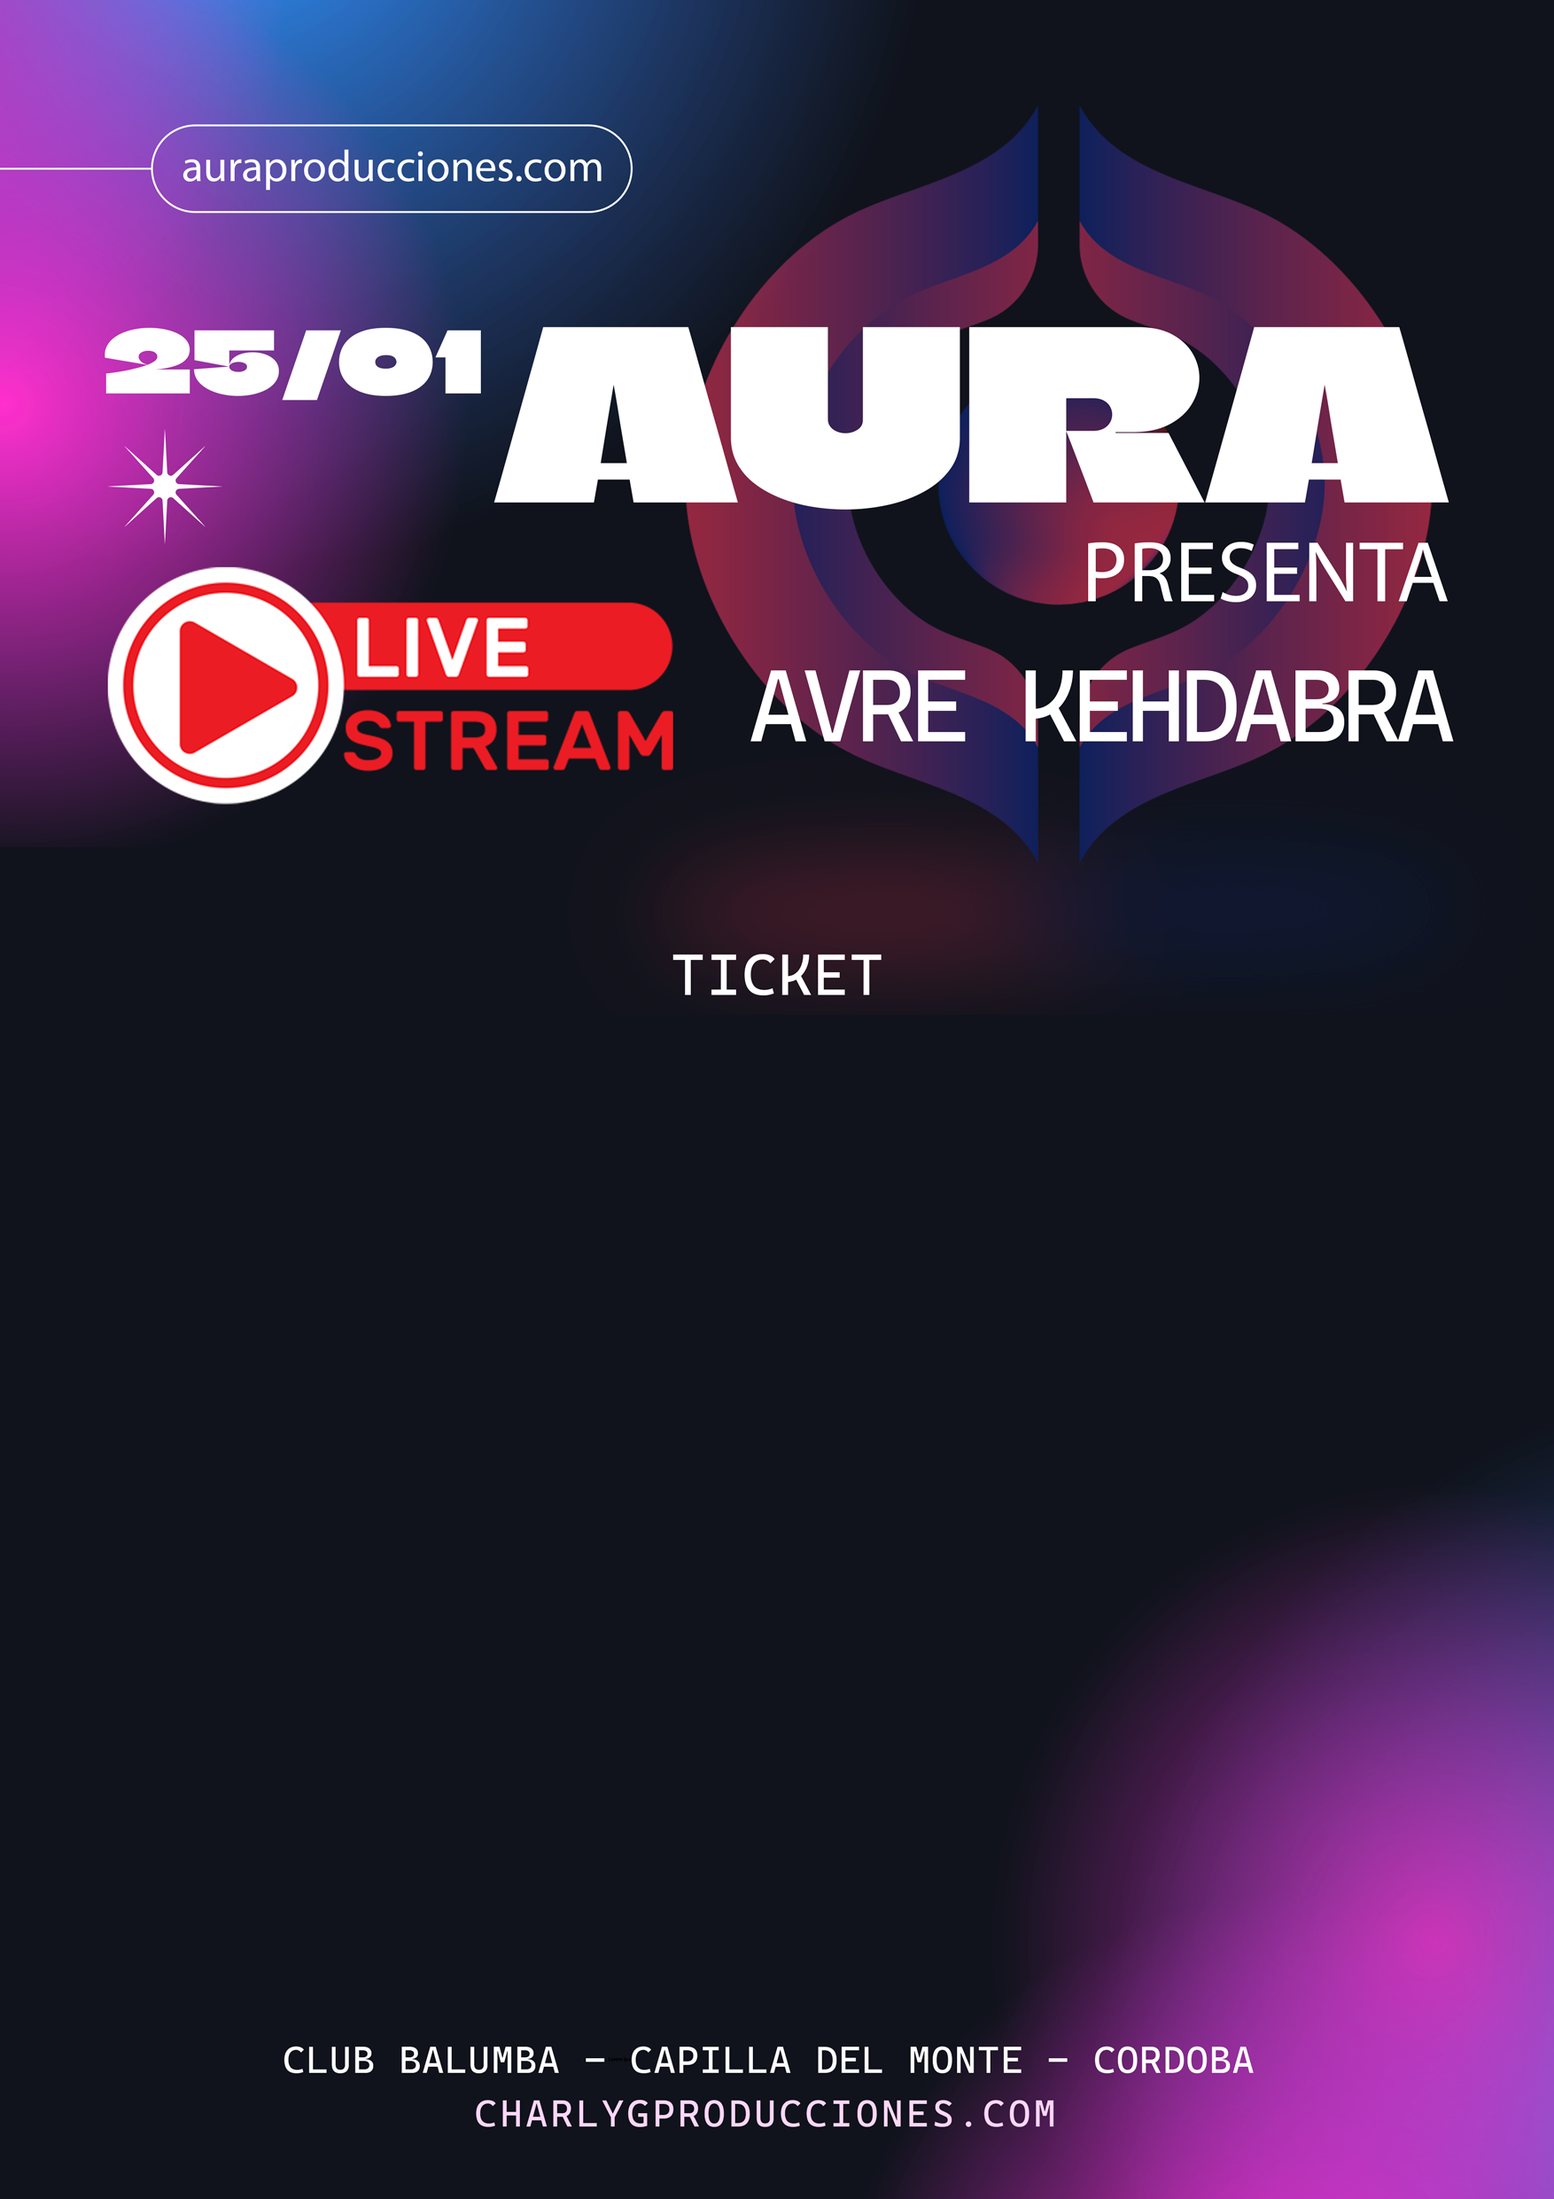
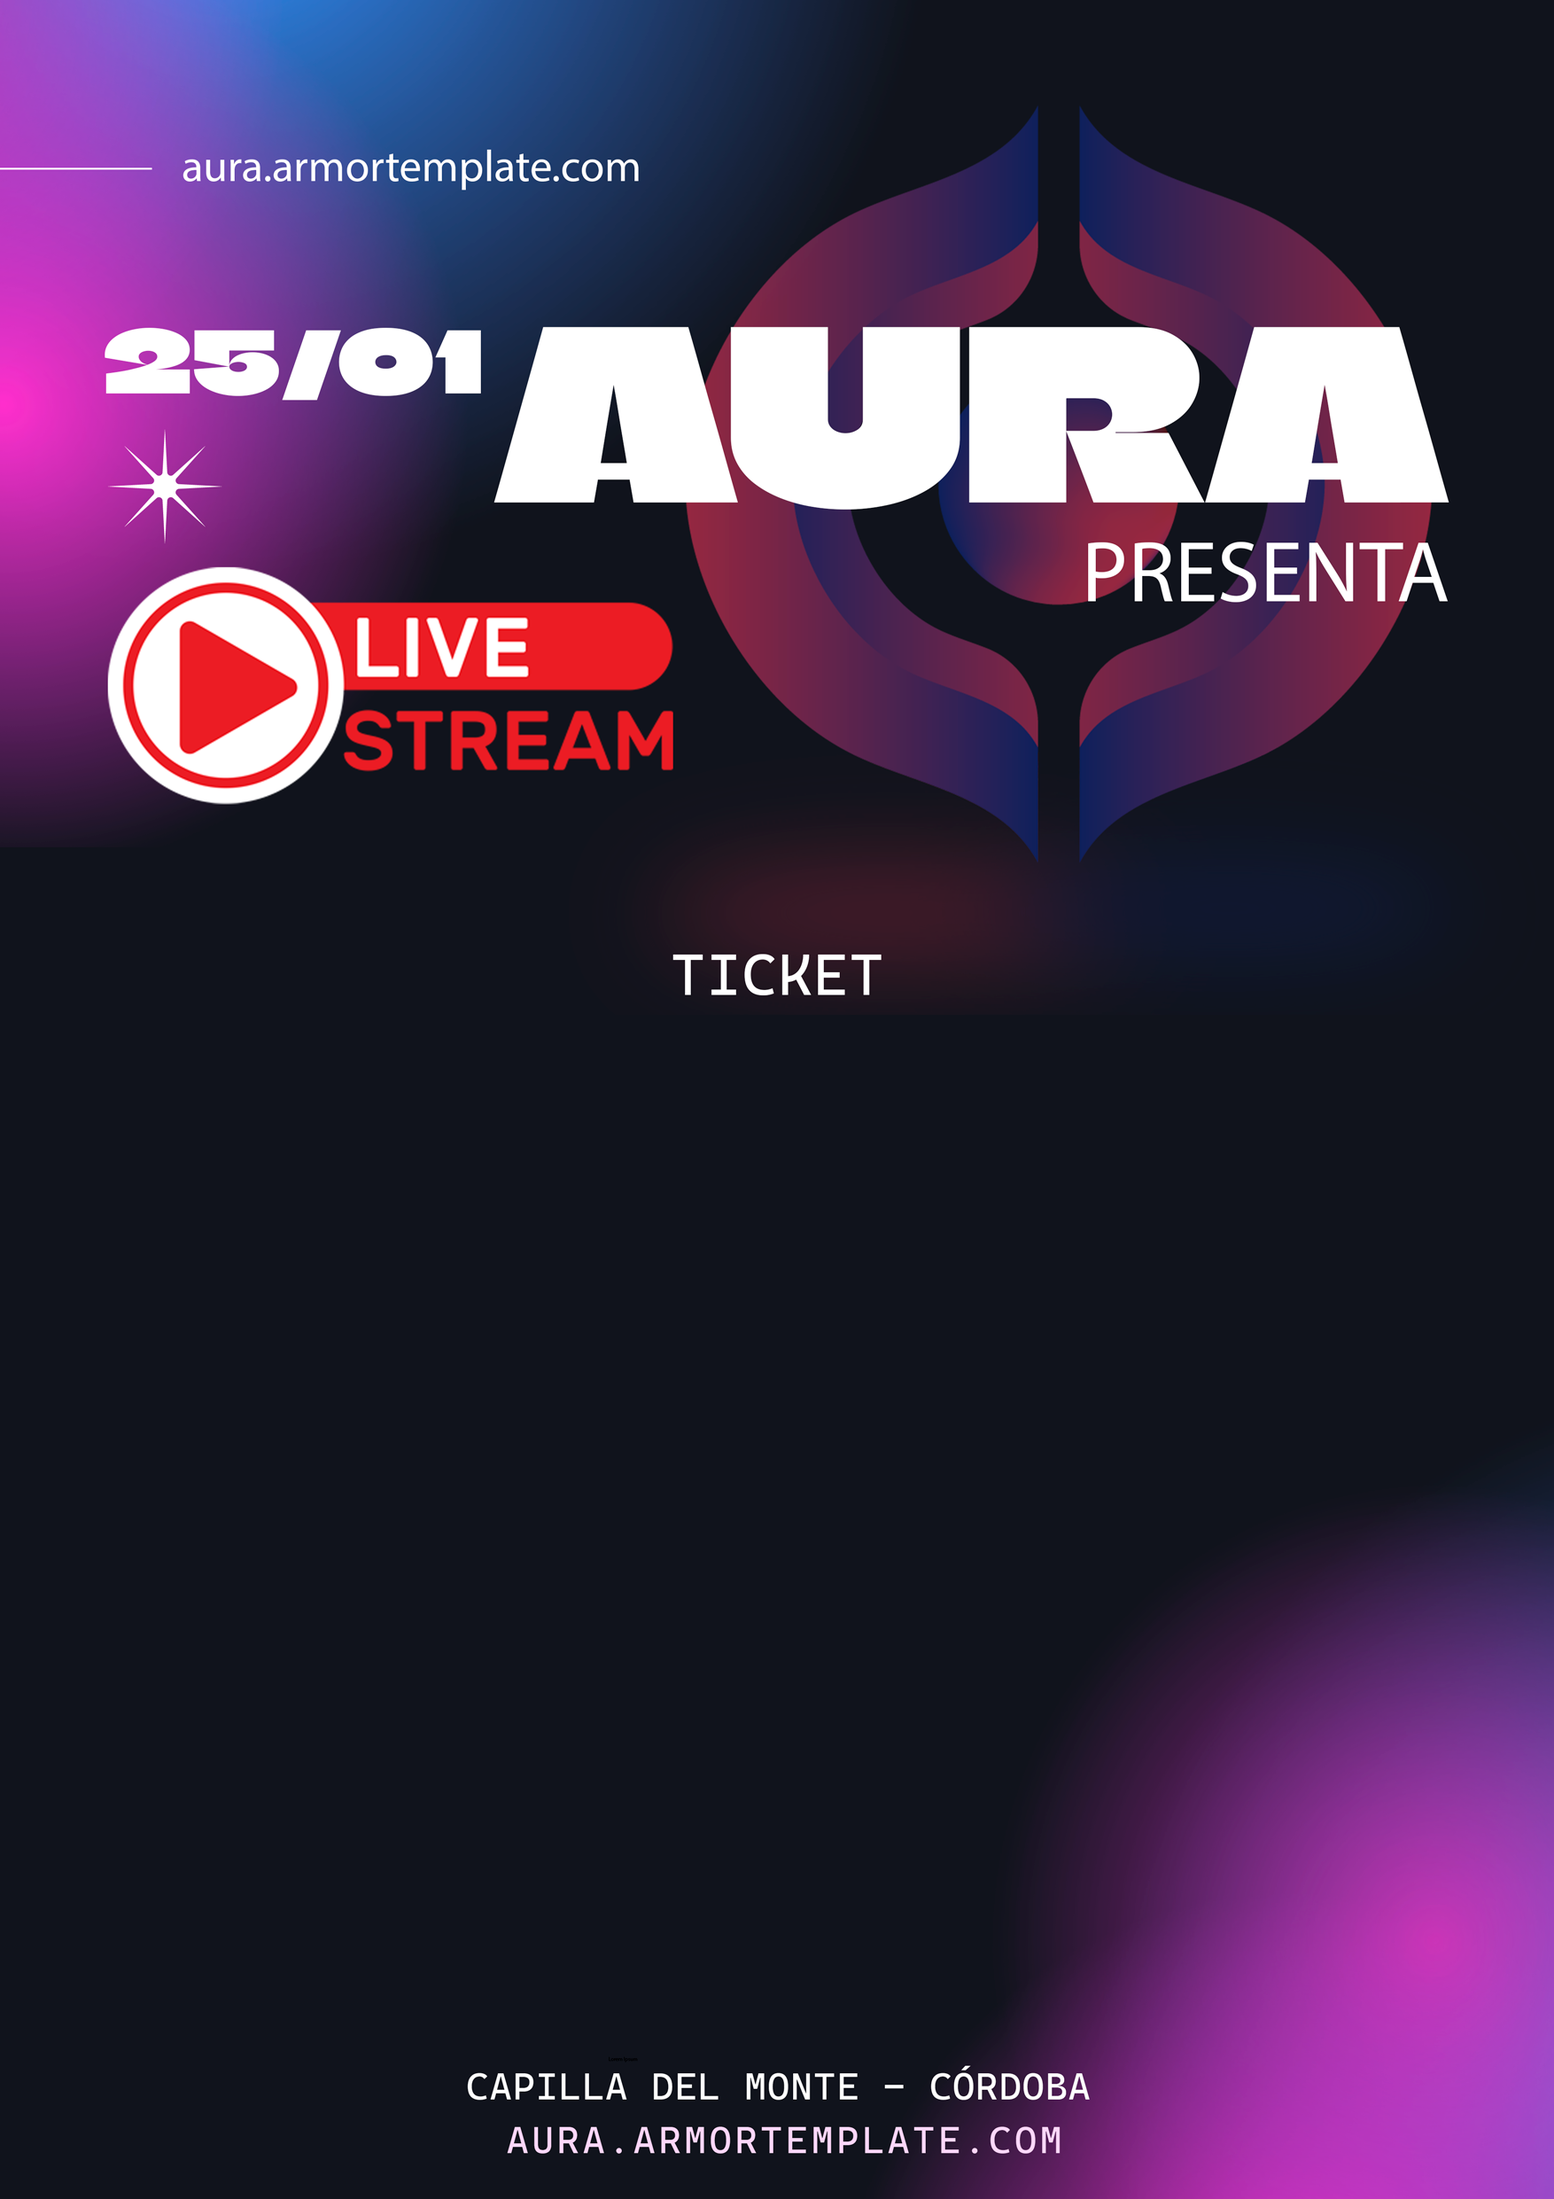
produ aura balumba

diff --git a/src/authentication.js b/src/authentication.js
@@ -1,13 +1,142 @@
-const { AuthenticationService, JWTStrategy } = require('@feathersjs/authentication');
-const { LocalStrategy } = require('@feathersjs/authentication-local');
-const { expressOauth } = require('@feathersjs/authentication-oauth');
+const {
+  AuthenticationService,
+  JWTStrategy,
+} = require("@feathersjs/authentication");
+const { LocalStrategy } = require("@feathersjs/authentication-local");
+const { expressOauth } = require("@feathersjs/authentication-oauth");
+const passport = require("passport");
+const GoogleStrategy = require("passport-google-oauth2").Strategy;
+const session = require("express-session");
+const path = require("path");
 
-module.exports = app => {
+module.exports = (app) => {
   const authentication = new AuthenticationService(app);
 
-  authentication.register('jwt', new JWTStrategy());
-  authentication.register('local', new LocalStrategy());
+  authentication.register("jwt", new JWTStrategy());
+  authentication.register("local", new LocalStrategy());
 
-  app.use('/authentication', authentication);
+  // Configuración de la sesión
+  app.use(
+    session({
+      secret: "yourSecretKey",
+      resave: false,
+      saveUninitialized: true,
+      cookie: { secure: false },
+    })
+  );
+
+  app.use(passport.initialize());
+  app.use(passport.session());
+
+  // Configuración de Passport.js
+  passport.use(
+    new GoogleStrategy(
+      {
+        clientID:
+          "976773336253-5q6h9fcoqbqmmlpejtnni8gos9bb014a.apps.googleusercontent.com",
+        clientSecret: "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",
+        callbackURL: "https://api-aura.armortemplate.com/auth/google/callback",
+        passReqToCallback: true,
+      },
+      async function (request, accessToken, refreshToken, profile, done) {
+        try {
+          const userService = app.service("users");
+
+          // Busca al usuario en la base de datos por googleId o email
+          const result = await userService.find({
+            query: {
+              $or: [{ googleId: profile.id }, { email: profile.email }],
+            },
+          });
+
+          let user;
+
+          if (result.total === 0) {
+            // Si el usuario no existe, lo crea
+            user = await userService.create({
+              googleId: profile.id,
+              displayName: profile.displayName,
+              email: profile.email,
+              imagen: profile.picture,
+              // requests: 200,
+              // credits: 40,
+              name: profile.displayName,
+              // verified: true,
+            });
+          } else {
+            // Si el usuario ya existe, lo usa
+            user = result.data[0];
+          }
+
+          // Genera un token JWT para el usuario
+          const payload = { userId: user._id.toString() };
+          const jwt = await app
+            .service("authentication")
+            .createAccessToken(payload, {
+              subject: user._id.toString(),
+              issuer: "feathers",
+            });
+
+          // Adjunta el token al usuario
+          user = { ...user, token: jwt };
+
+          return done(null, user);
+        } catch (error) {
+          return done(error);
+        }
+      }
+    )
+  );
+
+  // Serialización y deserialización de usuario
+  passport.serializeUser(function (user, done) {
+    done(null, user._id); // Usa _id si es MongoDB
+  });
+
+  passport.deserializeUser(async function (id, done) {
+    try {
+      const user = await app.service("users").get(id);
+      done(null, user);
+    } catch (error) {
+      done(error, null);
+    }
+  });
+
+  // Rutas de autenticación
+  app.get(
+    "/auth/google",
+    passport.authenticate("google", { scope: ["email", "profile"] })
+  );
+
+  app.get(
+    "/auth/google/callback",
+    passport.authenticate("google", {
+      failureRedirect: "/auth/google/failure",
+    }),
+    (req, res) => {
+      console.log("req.user", req.user);
+      // Redirige al éxito y pasa el token JWT
+      res.redirect(
+        `https://aura.armortemplate.com/autologin?token=${req.user.token}&user_id=${req.user._id}`
+        // `http://localhost:9999/autologin?token=${req.user.token}&user_id=${req.user._id}`
+      );
+    }
+  );
+
+  //pico.charlygproducciones.com/auth/google/callback?code=4%2F0ATx3LY6TNvFQtpCV5u-D3G7oB16n2qFZB_wLgjNe6eoeb92oiHJHEBdfv6-RhIH02Bq7gA&scope=email+profile+openid+https%3A%2F%2Fwww.googleapis.com%2Fauth%2Fuserinfo.profile+https%3A%2F%2Fwww.googleapis.com%2Fauth%2Fuserinfo.email&authuser=4&prompt=consent
+
+  // app.get("/auth/google/success", (req, res) => {
+  //   res.sendFile(path.join(__dirname, "../public/success.html"));
+  // });
+
+  // app.get("/auth/google/failure", (req, res) => {
+  //   res.sendFile(path.join(__dirname, "../public/failure.html"));
+  // });
+
+  // app.get("/", (req, res) => {
+  //   res.sendFile(path.join(__dirname, "../public/index.html"));
+  // });
+
+  app.use("/authentication", authentication);
   app.configure(expressOauth());
 };

diff --git a/src/hooks/change-payments.js b/src/hooks/change-payments.js
@@ -12,12 +12,12 @@ mercadopago.configure({
   // access_token: 'APP_USR-8509403097579740-051601-e1c674ca876a173dd84e3b63a2ac3d6e-1375519379'
   
   //produccion
-  // access_token: 'APP_USR-3967596500928054-020703-58d66af4da4675b3a2c2c5ed3d5ca6d2-94662750'
+  access_token: 'APP_USR-3967596500928054-020703-58d66af4da4675b3a2c2c5ed3d5ca6d2-94662750'
   // aquí debes colocar tu Client Secret
 
 
   // para test developer
-   access_token: 'APP_USR-5050283024010521-080117-1be3cde8e474088c42201a3722be9673-1304411976'
+  //  access_token: 'APP_USR-5050283024010521-080117-1be3cde8e474088c42201a3722be9673-1304411976'
 
   //cuenta ro
   // access_token: 'APP_USR-2354878281626192-122521-a41bf257a1dd84f3f5edc648a49d806a-1042694053'
@@ -158,7 +158,7 @@ module.exports = (options = {}) => {
                   // publica: "sistema mercadopago",
                   //si no hay pago.publica, poner sistema
                   publica: pago.publica ? pago.publica : "sin publica",
-                  url: 'http://192.168.1.16:3322/entradas/'+pago._id,
+                  // url: 'http://192.168.1.16:3322/entradas/'+pago._id,
 
                 //   "datos": {
                 //     "nombre": "Tony",
@@ -184,17 +184,17 @@ module.exports = (options = {}) => {
               
               //     "linkEntradas": [
               //         {
-              //             "link": "https://api.charlygproducciones.com/descargar-entradas/646325c5ef88831bf2e0b755",
+              //             "link": "https://api-aura.armortemplate.com/descargar-entradas/646325c5ef88831bf2e0b755",
               //             "idTicket": "646325c5ef88831bf2e0b755",
               //             "idNumero": 1
               //         },
               //         {
-              //             "link": "https://api.charlygproducciones.com/descargar-entradas/646325c5ef88831bf2e0b757",
+              //             "link": "https://api-aura.armortemplate.com/descargar-entradas/646325c5ef88831bf2e0b757",
               //             "idTicket": "646325c5ef88831bf2e0b757",
               //             "idNumero": 2
               //         },
               //         {
-              //             "link": "https://api.charlygproducciones.com/descargar-entradas/646325c8ef88831bf2e0b759",
+              //             "link": "https://api-aura.armortemplate.com/descargar-entradas/646325c8ef88831bf2e0b759",
               //             "idTicket": "646325c8ef88831bf2e0b759",
               //             "idNumero": 3
               //         }
@@ -217,7 +217,7 @@ module.exports = (options = {}) => {
               //   linksHtml += '<a href="'+element+'">Ticket '+index+'</a> <br>';
               // }
               // let link = 'http://localhost:5050/gracias/'+pago._id;
-              let link = 'https://aura-producciones.com/gracias/'+pago._id;
+              let link = 'https://aura.armortemplate.com/gracias/'+pago._id;
               // let link = 'https://auramanager.alguientiene.com/gracias/'+pago._id;
 
               linksHtml += '<a href="'+link+'">Descargar Tickets </a> <br>';
@@ -322,7 +322,7 @@ module.exports = (options = {}) => {
                     const mailOptions = {
                         from: 'carlo.gammarota@gmail.com',
                         to: pago.email,
-                        subject: 'Tickets Aura - ABRACADABRA - CLUB BALUMBA',
+                        subject: 'Tickets Aura - CLUB BALUMBA',
                         html: customizedHtml,
                         attachments: attachments
                         

diff --git a/src/hooks/generar.js b/src/hooks/generar.js
@@ -12,12 +12,12 @@ mercadopago.configure({
 
 
   // //produccion
-  // access_token: 'APP_USR-114968102990097-051422-4304eafc70b7b7cda809677af7acd94a-94662750'
+  access_token: 'APP_USR-114968102990097-051422-4304eafc70b7b7cda809677af7acd94a-94662750'
   
 
 
     // para test
-    access_token: 'APP_USR-5050283024010521-080117-1be3cde8e474088c42201a3722be9673-1304411976'
+    // access_token: 'APP_USR-5050283024010521-080117-1be3cde8e474088c42201a3722be9673-1304411976'
 
 
     //cuenta ro
@@ -37,8 +37,6 @@ const app = express();
 // Middleware para procesar solicitudes con cuerpo JSON
 app.use(bodyParser.json());
 
-
-const api_url = 'https://api.charlygproducciones.com/';
 
 // eslint-disable-next-line no-unused-vars
 module.exports = (options = {}) => {
@@ -126,26 +124,26 @@ module.exports = (options = {}) => {
         // external_reference_variable
         failure: 'https://aura-producciones.com/',
         //este es para descargar la entrada de una
-        // success: 'https://api.charlygproducciones.com/descargar-entradas/' + external_reference_variable,
+        // success: 'https://api-aura.armortemplate.com/descargar-entradas/' + external_reference_variable,
         //este link retorna a la web gracias por su compra con la posibilidad de descargar las entrada
         // success: 'https://aura-producciones.com/gracias/' + external_reference_variable,
-        success: api_url + 'gracias/' + external_reference_variable,
+        success: 'https://aura.armortemplate.com/' + 'gracias/' + external_reference_variable,
         // pending: 'https://aura-producciones.com/gracias/' + external_reference_variable,
-        pending: api_url + 'gracias/' + external_reference_variable,
+        pending: 'https://aura.armortemplate.com/' + 'gracias/' + external_reference_variable,
         // failure: 'https://aura-producciones.com/gracias/' + external_reference_variable
-        failure: api_url + 'gracias/' + external_reference_variable
+        failure: 'https://aura.armortemplate.com/' + 'gracias/' + external_reference_variable
       },
       auto_return: 'approved',
       external_reference: JSON.stringify(res._id),
       // notification_url: 'https://d004-170-51-93-104.sa.ngrok.io/mercadopago',
 
       //produccion
-      // notification_url: 'https://api.charlygproducciones.com/mercadopago',
+      // notification_url: 'https://api-aura.armortemplate.com/mercadopago',
 
 
       //local test
       // notification_url: 'https://a498-181-99-7-57.ngrok-free.app/mercadopago',
-      notification_url: api_url + 'mercadopago',
+      notification_url: 'https://api-aura.armortemplate.com/mercadopago',
 
 
 

diff --git a/src/models/users.model.js b/src/models/users.model.js
@@ -16,6 +16,21 @@ module.exports = function (app) {
     finanzas: { type: Object },
     imagenFondo: { type: String },
     desarrollo: { type: Boolean },
+    //  googleId: profile.id,
+    //           displayName: profile.displayName,
+    //           email: profile.email,
+    //           imagen: profile.picture,
+    //           requests: 200,
+    //           credits: 40,
+    //           name: profile.displayName,
+    //           verified: true,
+  
+    googleId: { type: String },
+    displayName: { type: String },
+    imagen: { type: String },
+    // requests: { type: Number },
+    // credits: { type: Number },
+    name: { type: String },
   
   
   }, {

diff --git a/nuevo-mail.html b/nuevo-mail.html
@@ -59,7 +59,7 @@
                   <br>Pueyrredón 973, Capilla del Monte (<a href="https://www.google.com/maps/place/Pueyrred%C3%B3n+973,+X5184+Capilla+del+Monte,+C%C3%B3rdoba/@-30.8663435,-64.5293814,17z/data=!3m1!4b1!4m6!3m5!1s0x942d93c18dcac389:0x7c3812962af88ad1!8m2!3d-30.8663435!4d-64.5268065!16s%2Fg%2F11kb8yz2pd?entry=ttu" class="text-blue-600" target="_blank" style="color: #2563eb;">¿Cómo llegar?</a>)
                   <br>
                   <br>
-                  Abrimos las puertas a las <strong>01:00hs.</strong>
+                  Abrimos las puertas a las <strong>18:00hs.</strong>
                 </p>
 
 

diff --git a/src/services/link-entradas/link-entradas.hooks.js b/src/services/link-entradas/link-entradas.hooks.js
@@ -30,7 +30,7 @@ module.exports = {
           console.log('ticket', ticket);
           let idTicket = ticket._id;
           let idNumero = index;
-          let link = `https://api.charlygproducciones.com/descargar-entradas/${idTicket}`;
+          let link = `https://api-aura.armortemplate.com/descargar-entradas/${idTicket}`;
           // let link = `http://192.168.1.8:5050/descargar-entradas/${idTicket}`;
 
           linkEntradas.push({

diff --git a/src/services/users/users.hooks.js b/src/services/users/users.hooks.js
@@ -34,8 +34,8 @@ const isOwner = async (context) => {
 module.exports = {
   before: {
     all: [],
-    find: [ authenticate('jwt') ],
-    get: [ authenticate('jwt') ],
+    // find: [ authenticate('jwt') ],
+    // get: [ authenticate('jwt') ],
     create: [ hashPassword('password') ],
     update: [ hashPassword('password'),  authenticate('jwt'), isOwner ],
     patch: [ hashPassword('password'),  authenticate('jwt'), isOwner ],
